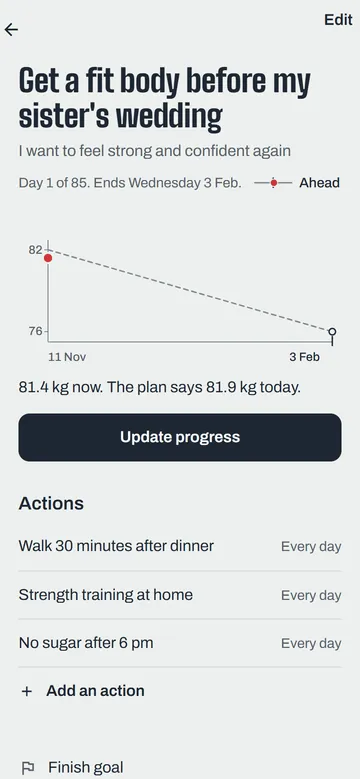
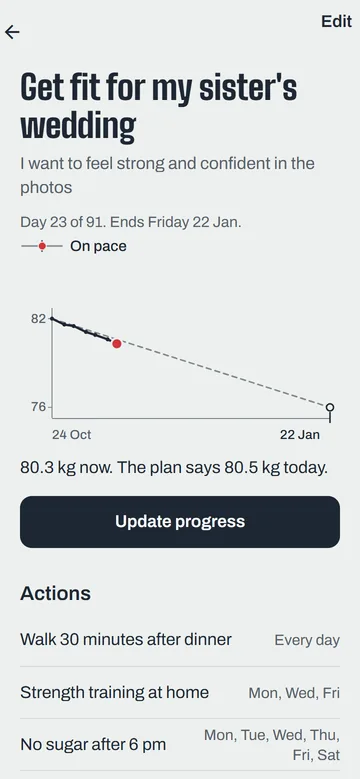
Upgrade card: fresh screenshots, Money screen and finance tracker

diff --git a/index.html b/index.html
@@ -238,12 +238,12 @@
     }
     /* Tablets: bigger screenshots under the text */
     @media (min-width: 600px) {
-      .card.feature .shots { display: grid; grid-template-columns: repeat(3, minmax(0, 1fr)); max-width: 540px; overflow: visible; margin-top: 14px; }
+      .card.feature .shots { display: grid; grid-template-columns: repeat(4, minmax(0, 1fr)); max-width: 720px; overflow: visible; margin-top: 14px; }
       .card.feature .shots img { width: 100%; }
     }
     /* Wide laptops: Upgrade text beside its screenshots */
     @media (min-width: 1100px) {
-      .card.feature { display: grid; grid-template-columns: minmax(0, 1fr) minmax(0, 440px); gap: 36px; align-items: center; }
+      .card.feature { display: grid; grid-template-columns: minmax(0, 1fr) minmax(0, 560px); gap: 36px; align-items: center; }
       .card.feature .shots { max-width: none; margin: 0; }
     }
     /* Large monitors: scale up a little and use more width */
@@ -354,19 +354,21 @@
             <div class="feature-text">
             <span class="tag">Personal project</span><span class="tag muted">Android app live</span>
             <h3>Upgrade: a goals and habits app</h3>
-            <p>A self-improvement app I designed and built end to end. You set a goal with a reason and a measurable target, get daily actions, review missed days, and track progress against your plan with ranks and badges.</p>
+            <p>A self-improvement app I designed and built end to end. You set a goal with a reason and a measurable target, get daily actions, review missed days, track spending against a monthly budget, and see progress against your plan with ranks and badges.</p>
             <ul class="highlights">
               <li>Android app built with Expo, live on a FastAPI + PostgreSQL backend</li>
               <li>Secure sign-in with JWT access and refresh tokens, plus rate limiting</li>
+              <li>A finance tracker: a monthly budget split into your own categories, a daily spending log, and weekly savings that pay down debt, all feeding points and badges</li>
               <li>API-first: the app's client is generated from an OpenAPI contract</li>
-              <li>246 automated UI tests across phone sizes, tablet and dark mode</li>
+              <li>289 automated UI tests across phone sizes, tablet and dark mode, plus 146 backend tests</li>
             </ul>
             <p class="stack">Expo / React Native · TypeScript · FastAPI · PostgreSQL · Alembic · Docker · JWT auth · Render · Neon</p>
             </div>
             <div class="shots">
-              <img src="/assets/upgrade-today.webp" width="132" height="286" loading="lazy" alt="Upgrade app Today screen with daily actions grouped by goal">
-              <img src="/assets/upgrade-goal.webp" width="132" height="286" loading="lazy" alt="Upgrade app goal screen with a progress chart against the plan">
-              <img src="/assets/upgrade-progress.webp" width="132" height="286" loading="lazy" alt="Upgrade app Progress screen showing three goals and their charts">
+              <img src="/assets/upgrade-today.webp" width="132" height="286" loading="lazy" alt="Upgrade app Today screen: two of three actions done, a 9-day run, 20 points at Silver II, and ₹403.88 left to spend today">
+              <img src="/assets/upgrade-goal.webp" width="132" height="286" loading="lazy" alt="Upgrade app goal screen: body weight charted against the planned pace for a fitness goal, with its three actions">
+              <img src="/assets/upgrade-money.webp" width="132" height="286" loading="lazy" alt="Upgrade app Money screen: ₹8,262 left of ₹32,500 to spend in November, debt down to ₹80,000 after ₹5,000 paid, and spending in five categories">
+              <img src="/assets/upgrade-progress.webp" width="132" height="286" loading="lazy" alt="Upgrade app Progress screen: 18 of 23 days finished since 24 October, with progress charts for two goals">
             </div>
           </article>
         </div>
